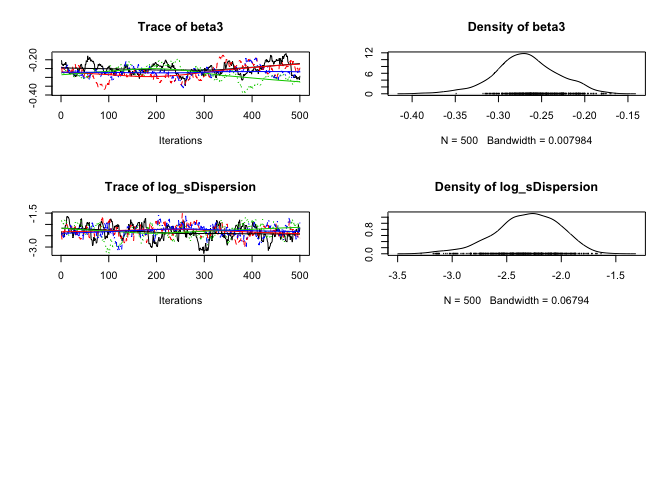
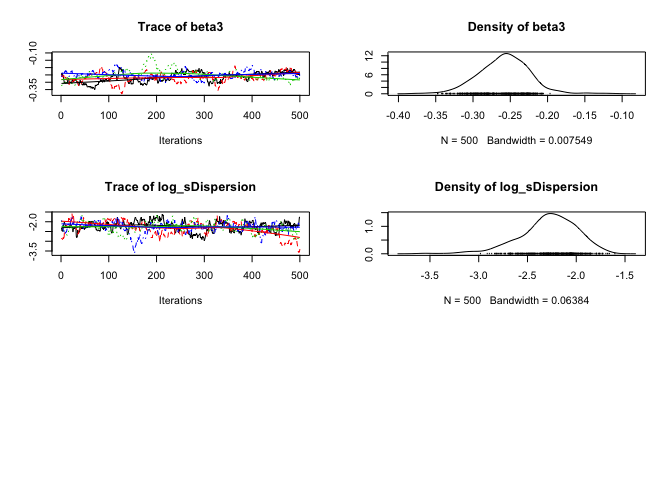
update readme

diff --git a/README.md b/README.md
@@ -73,13 +73,13 @@ glance(analysis)
 #> 1    40     5     NA    NA       0      TRUE
 tidy(analysis)
 #> # A tibble: 5 × 5
-#>              term   estimate  std.error   statistic p.value
-#> *           <chr>      <dbl>      <dbl>       <dbl>   <dbl>
-#> 1           alpha  4.2158133 0.04027473 104.6787324  0.0005
-#> 2           beta1  1.1830243 0.07477230  15.8151546  0.0005
-#> 3           beta2  0.0198725 0.03134273   0.6391675  0.5370
-#> 4           beta3 -0.2683136 0.03667968  -7.3036950  0.0005
-#> 5 log_sDispersion -2.2903667 0.29310794  -7.8922141  0.0005
+#>              term    estimate  std.error   statistic p.value
+#> *           <chr>       <dbl>      <dbl>       <dbl>   <dbl>
+#> 1           alpha  4.21873054 0.03946038 106.9092386  0.0005
+#> 2           beta1  1.16316340 0.06711848  17.3950563  0.0005
+#> 3           beta2  0.01587602 0.03043821   0.5006879  0.6080
+#> 4           beta3 -0.25704091 0.03431748  -7.5199858  0.0005
+#> 5 log_sDispersion -2.26262759 0.29950177  -7.6296822  0.0005
 
 year <- predict(analysis, new_data = new_data(data, "Year"))
 
